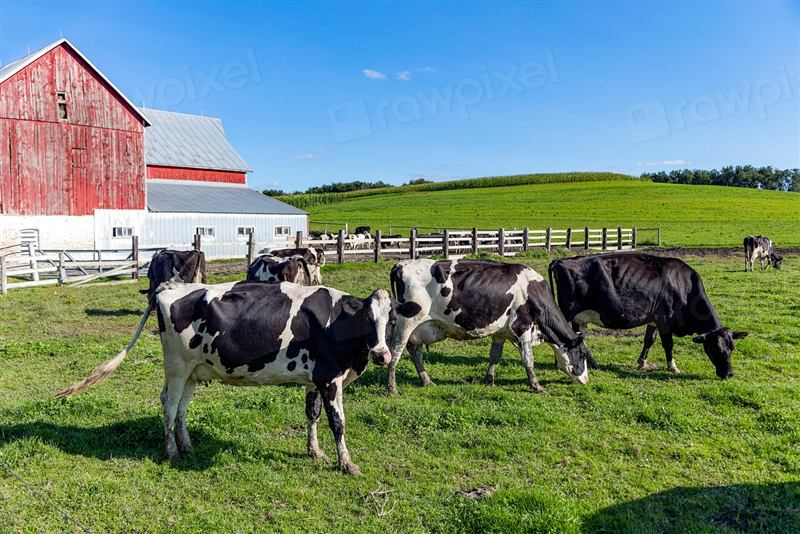
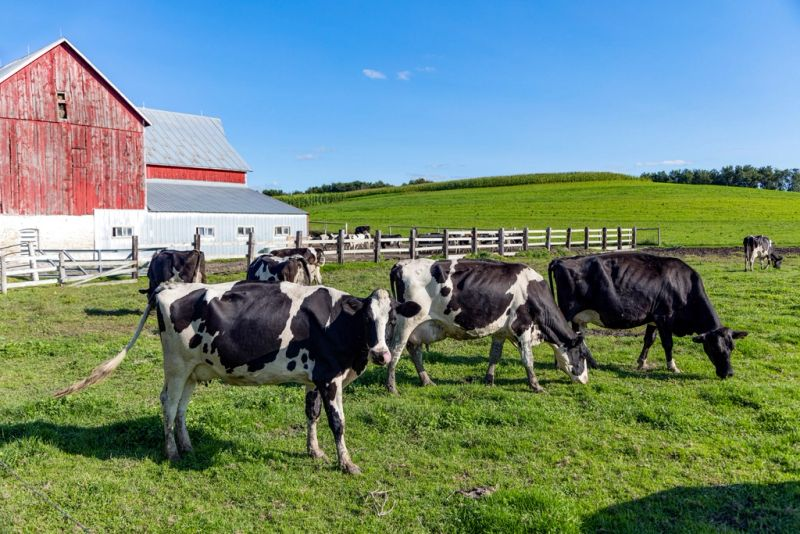
feat: v3 - per-page photo bands, watermark-free hero rebuild
Every page now carries imagery: WI dairy aerials (Wikimedia CC0), Jersey
herd + calf (USDA PD) as compact page bands; hero regenerated from the
clean CC0 render (the larger rawpixel endpoint served watermarked
previews). Homepage payload down 382KB -> 271KB. All 5 gates pass.

diff --git a/aboutus.html b/aboutus.html
@@ -12,8 +12,8 @@
 <meta property="og:type" content="website">
 <meta property="og:url" content="https://dairydoctor.com/aboutus.html">
 <meta property="og:image" content="https://dairydoctor.com/images/hero-holsteins.jpg">
-<meta property="og:image:width" content="1300">
-<meta property="og:image:height" content="867">
+<meta property="og:image:width" content="1024">
+<meta property="og:image:height" content="683">
 <link rel="icon" type="image/svg+xml" href="favicon.svg">
 <!-- Google Analytics 4: paste GA4 snippet here after creating the property. See docs/FREE-RESOURCES playbook. -->
 <link rel="preload" href="fonts/fraunces-600.woff2" as="font" type="font/woff2" crossorigin>
@@ -51,6 +51,11 @@
   </nav>
 </header>
 
+<div class="page-band">
+  <img src="images/herd-vintage.jpg" width="1024" height="769" alt="An archival black and white photograph of a dairy herd" decoding="async">
+</div>
+<p class="band-caption">Dairy country, generations deep.</p>
+
 <main id="main">
   <section class="container">
     <h1>About Dr. Glenn Pearson, DVM</h1>
@@ -66,11 +71,6 @@
       <p class="eyebrow">Our story</p>
       <h2>About Advanced Dairy Diagnostic &amp; Consulting, LLC</h2>
     </div>
-
-    <figure class="figure-caption-card" data-reveal>
-      <img src="images/herd-vintage.jpg" width="1024" height="769" alt="An archival black and white photograph of a dairy herd" loading="lazy" decoding="async">
-      <figcaption>Dairy country, generations deep.</figcaption>
-    </figure>
 
     <p>As the first BioPRYN&reg; affiliate lab east of the Rockies, Advanced Dairy Diagnostic &amp; Consulting began operations in 1999 under the original name of Dairy Pharm Services. Since their affiliation in 2005, ADDC continues to support their clientele with more than 20 years of priceless, proven experience using BioPRYN.</p>
     <p>As a client of ADDC, you automatically receive the expert troubleshooting and support of Dr. Glenn Pearson, DVM. With more than 40 years of dairy and beef production medicine experience, Dr. Glenn is only an email or phone call away from helping you with timely intervention and up-to-date corrective advice.</p>

diff --git a/index.html b/index.html
@@ -12,13 +12,13 @@
 <meta property="og:type" content="website">
 <meta property="og:url" content="https://dairydoctor.com/">
 <meta property="og:image" content="https://dairydoctor.com/images/hero-holsteins.jpg">
-<meta property="og:image:width" content="1300">
-<meta property="og:image:height" content="867">
+<meta property="og:image:width" content="1024">
+<meta property="og:image:height" content="683">
 <link rel="icon" type="image/svg+xml" href="favicon.svg">
 <!-- Google Analytics 4: paste GA4 snippet here after creating the property. See docs/FREE-RESOURCES playbook. -->
 <link rel="preload" href="fonts/fraunces-600.woff2" as="font" type="font/woff2" crossorigin>
 <link rel="preload" href="fonts/fraunces-900.woff2" as="font" type="font/woff2" crossorigin>
-<link rel="preload" as="image" href="images/hero-holsteins.jpg" imagesrcset="images/hero-holsteins-800.jpg 800w, images/hero-holsteins.jpg 1300w" imagesizes="100vw">
+<link rel="preload" as="image" href="images/hero-holsteins.jpg" imagesrcset="images/hero-holsteins-800.jpg 800w, images/hero-holsteins.jpg 1024w" imagesizes="100vw">
 <link rel="stylesheet" href="css/style.css">
 <script src="js/site.js" defer></script>
 <script type="application/ld+json">
@@ -94,7 +94,7 @@
 <main id="main">
 
   <section class="hero">
-    <img class="hero-img" src="images/hero-holsteins.jpg" srcset="images/hero-holsteins-800.jpg 800w, images/hero-holsteins.jpg 1300w" sizes="100vw" width="1300" height="867" alt="Holstein dairy cows grazing in front of a red barn" fetchpriority="high" decoding="async">
+    <img class="hero-img" src="images/hero-holsteins.jpg" srcset="images/hero-holsteins-800.jpg 800w, images/hero-holsteins.jpg 1024w" sizes="100vw" width="1024" height="683" alt="Holstein dairy cows grazing in front of a red barn" fetchpriority="high" decoding="async">
     <div class="hero-scrim" aria-hidden="true"></div>
     <div class="container">
       <p class="eyebrow hero-eyebrow">BioPRYN Affiliate Lab Since 1999</p>

diff --git a/bvdtest.html b/bvdtest.html
@@ -12,8 +12,8 @@
 <meta property="og:type" content="website">
 <meta property="og:url" content="https://dairydoctor.com/bvdtest.html">
 <meta property="og:image" content="https://dairydoctor.com/images/hero-holsteins.jpg">
-<meta property="og:image:width" content="1300">
-<meta property="og:image:height" content="867">
+<meta property="og:image:width" content="1024">
+<meta property="og:image:height" content="683">
 <link rel="icon" type="image/svg+xml" href="favicon.svg">
 <!-- Google Analytics 4: paste GA4 snippet here after creating the property. See docs/FREE-RESOURCES playbook. -->
 <link rel="preload" href="fonts/fraunces-600.woff2" as="font" type="font/woff2" crossorigin>
@@ -51,14 +51,14 @@
   </nav>
 </header>
 
+<div class="page-band">
+  <img src="images/cow-approach.jpg" width="1024" height="683" alt="A Holstein cow approaching in a dry lot" decoding="async">
+</div>
+
 <main id="main">
   <section class="container">
     <h1>Testing Your Herd for BVD Persistent Infection</h1>
     <p class="badge">What you don't know will hurt you</p>
-
-    <figure class="figure-wide" data-reveal>
-      <img src="images/cow-approach.jpg" width="1024" height="683" alt="A Holstein cow approaching in a dry lot" loading="lazy" decoding="async">
-    </figure>
 
     <div class="section-head" data-reveal>
       <p class="eyebrow">The science</p>

diff --git a/shipping_test.html b/shipping_test.html
@@ -12,8 +12,8 @@
 <meta property="og:type" content="website">
 <meta property="og:url" content="https://dairydoctor.com/shipping_test.html">
 <meta property="og:image" content="https://dairydoctor.com/images/hero-holsteins.jpg">
-<meta property="og:image:width" content="1300">
-<meta property="og:image:height" content="867">
+<meta property="og:image:width" content="1024">
+<meta property="og:image:height" content="683">
 <link rel="icon" type="image/svg+xml" href="favicon.svg">
 <!-- Google Analytics 4: paste GA4 snippet here after creating the property. See docs/FREE-RESOURCES playbook. -->
 <link rel="preload" href="fonts/fraunces-600.woff2" as="font" type="font/woff2" crossorigin>
@@ -50,6 +50,10 @@
     </div>
   </nav>
 </header>
+
+<div class="page-band">
+  <img src="images/band-shipping.jpg" width="1280" height="960" alt="Aerial view of a Wisconsin dairy farm among rolling fields" decoding="async">
+</div>
 
 <main id="main">
   <section class="container">

diff --git a/tailbleeding.html b/tailbleeding.html
@@ -12,8 +12,8 @@
 <meta property="og:type" content="website">
 <meta property="og:url" content="https://dairydoctor.com/tailbleeding.html">
 <meta property="og:image" content="https://dairydoctor.com/images/hero-holsteins.jpg">
-<meta property="og:image:width" content="1300">
-<meta property="og:image:height" content="867">
+<meta property="og:image:width" content="1024">
+<meta property="og:image:height" content="683">
 <link rel="icon" type="image/svg+xml" href="favicon.svg">
 <!-- Google Analytics 4: paste GA4 snippet here after creating the property. See docs/FREE-RESOURCES playbook. -->
 <link rel="preload" href="fonts/fraunces-600.woff2" as="font" type="font/woff2" crossorigin>
@@ -50,6 +50,10 @@
     </div>
   </nav>
 </header>
+
+<div class="page-band">
+  <img src="images/band-tailbleeding.jpg" width="1024" height="680" alt="A crowd of Jersey cows at a pasture fence" decoding="async">
+</div>
 
 <main id="main">
   <section class="container">

diff --git a/contact.html b/contact.html
@@ -12,8 +12,8 @@
 <meta property="og:type" content="website">
 <meta property="og:url" content="https://dairydoctor.com/contact.html">
 <meta property="og:image" content="https://dairydoctor.com/images/hero-holsteins.jpg">
-<meta property="og:image:width" content="1300">
-<meta property="og:image:height" content="867">
+<meta property="og:image:width" content="1024">
+<meta property="og:image:height" content="683">
 <link rel="icon" type="image/svg+xml" href="favicon.svg">
 <!-- Google Analytics 4: paste GA4 snippet here after creating the property. See docs/FREE-RESOURCES playbook. -->
 <link rel="preload" href="fonts/fraunces-600.woff2" as="font" type="font/woff2" crossorigin>
@@ -50,6 +50,10 @@
     </div>
   </nav>
 </header>
+
+<div class="page-band">
+  <img src="images/band-contact.jpg" width="1280" height="960" alt="Aerial view of a Wisconsin dairy farm in winter" decoding="async">
+</div>
 
 <main id="main">
   <section class="container">

diff --git a/faq.html b/faq.html
@@ -12,8 +12,8 @@
 <meta property="og:type" content="website">
 <meta property="og:url" content="https://dairydoctor.com/faq.html">
 <meta property="og:image" content="https://dairydoctor.com/images/hero-holsteins.jpg">
-<meta property="og:image:width" content="1300">
-<meta property="og:image:height" content="867">
+<meta property="og:image:width" content="1024">
+<meta property="og:image:height" content="683">
 <link rel="icon" type="image/svg+xml" href="favicon.svg">
 <!-- Google Analytics 4: paste GA4 snippet here after creating the property. See docs/FREE-RESOURCES playbook. -->
 <link rel="preload" href="fonts/fraunces-600.woff2" as="font" type="font/woff2" crossorigin>
@@ -50,6 +50,10 @@
     </div>
   </nav>
 </header>
+
+<div class="page-band">
+  <img src="images/band-faq.jpg" width="1024" height="683" alt="A Holstein calf chewing a rope through a fence board" decoding="async">
+</div>
 
 <main id="main">
   <section class="container">

diff --git a/css/style.css b/css/style.css
@@ -452,6 +452,37 @@ section + section {
   border-radius: var(--radius-pill);
 }
 
+/* -------------------- Page band (compact photo banner, 6 inner pages) -------------------- */
+.page-band {
+  position: relative;
+  height: clamp(180px, 28vw, 280px);
+  overflow: hidden;
+}
+
+.page-band img {
+  width: 100%;
+  height: 100%;
+  object-fit: cover;
+  object-position: center;
+}
+
+.page-band::after {
+  content: '';
+  position: absolute;
+  inset: 0;
+  background: linear-gradient(to bottom, rgba(242, 247, 246, 0) 55%, var(--mint) 100%);
+  pointer-events: none;
+}
+
+.band-caption {
+  text-align: right;
+  font-size: 0.85rem;
+  color: var(--muted);
+  max-width: 1080px;
+  margin-inline: auto;
+  padding: 0.5rem 1.25rem 0;
+}
+
 /* -------------------- Hero (index only): full-bleed photo -------------------- */
 .hero {
   position: relative;

diff --git a/pregtest.html b/pregtest.html
@@ -12,8 +12,8 @@
 <meta property="og:type" content="website">
 <meta property="og:url" content="https://dairydoctor.com/pregtest.html">
 <meta property="og:image" content="https://dairydoctor.com/images/hero-holsteins.jpg">
-<meta property="og:image:width" content="1300">
-<meta property="og:image:height" content="867">
+<meta property="og:image:width" content="1024">
+<meta property="og:image:height" content="683">
 <link rel="icon" type="image/svg+xml" href="favicon.svg">
 <!-- Google Analytics 4: paste GA4 snippet here after creating the property. See docs/FREE-RESOURCES playbook. -->
 <link rel="preload" href="fonts/fraunces-600.woff2" as="font" type="font/woff2" crossorigin>

diff --git a/404.html b/404.html
@@ -13,8 +13,8 @@
 <meta property="og:type" content="website">
 <meta property="og:url" content="https://dairydoctor.com/404.html">
 <meta property="og:image" content="https://dairydoctor.com/images/hero-holsteins.jpg">
-<meta property="og:image:width" content="1300">
-<meta property="og:image:height" content="867">
+<meta property="og:image:width" content="1024">
+<meta property="og:image:height" content="683">
 <link rel="icon" type="image/svg+xml" href="favicon.svg">
 <!-- Google Analytics 4: paste GA4 snippet here after creating the property. See docs/FREE-RESOURCES playbook. -->
 <link rel="preload" href="fonts/fraunces-600.woff2" as="font" type="font/woff2" crossorigin>

diff --git a/IMAGE-CREDITS.md b/IMAGE-CREDITS.md
@@ -5,7 +5,11 @@ here for provenance) or the business's own property. All fonts are OFL.
 
 | File | Source | License |
 |---|---|---|
-| images/hero-holsteins.jpg, images/hero-holsteins-800.jpg | "Holstein dairy cows farm" (pd207-1-186), rawpixel via Openverse | CC0 public domain dedication |
+| images/hero-holsteins.jpg, images/hero-holsteins-800.jpg | "Holstein dairy cows farm" (pd207-1-186), rawpixel via Openverse; regenerated 2026-08-10 from the clean watermark-free render (the larger "image_1300" endpoint serves watermarked previews - do not use it) | CC0 public domain dedication |
+| images/band-tailbleeding.jpg | USDA Flickr 20130911-OC-RBN-3764 via Openverse | Public Domain Mark (US government work) |
+| images/band-shipping.jpg | "Wisconsin dairy farm" (File:Wisconsin_dairy_farm.jpg), Wikimedia Commons | CC0 |
+| images/band-contact.jpg | "Wisconsin dairy farm 2" (File:Wisconsin_dairy_farm_2.jpg), Wikimedia Commons | CC0 |
+| images/band-faq.jpg | USDA FPAC Flickr 20220517-FPAC-PJK-7321 via Openverse | Public Domain Mark (US government work) |
 | images/herd-vintage.jpg | USDA archival photo 20120105-OC-AMW-0459, USDA Flickr via Openverse | Public Domain Mark (US government work) |
 | images/cow-approach.jpg | "Jgibson-0374", USDA Flickr via Openverse | Public Domain Mark (US government work) |
 | images/roundpreg.gif | Original dairydoctor.com (the lab's own BioPRYN result plate photo) | Owner's own asset |
